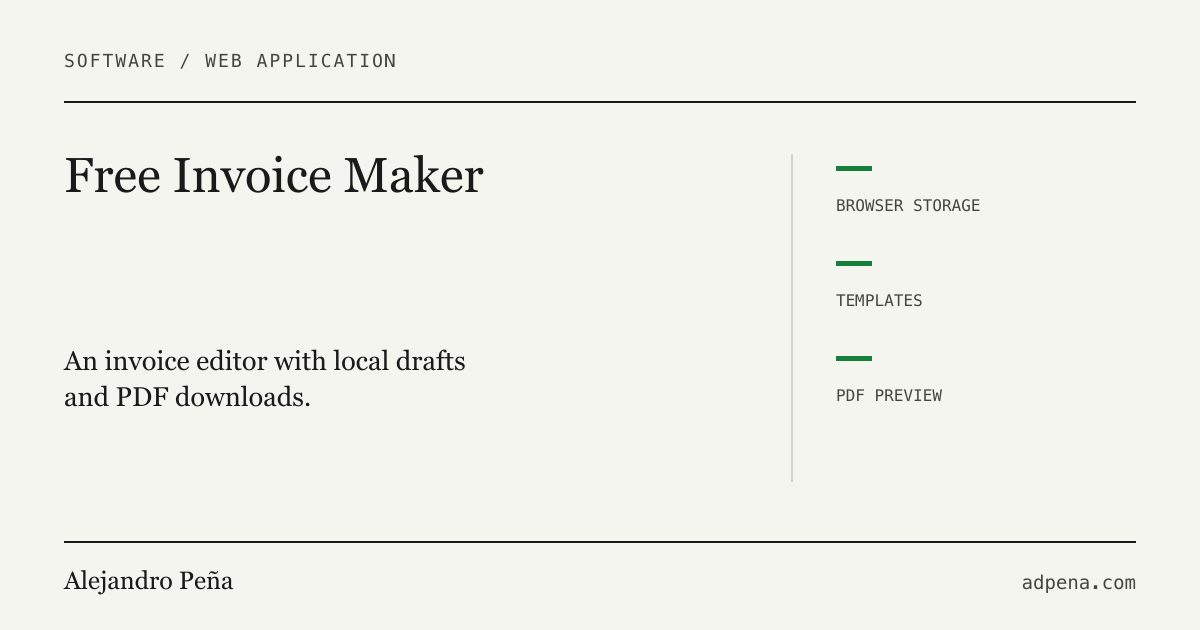
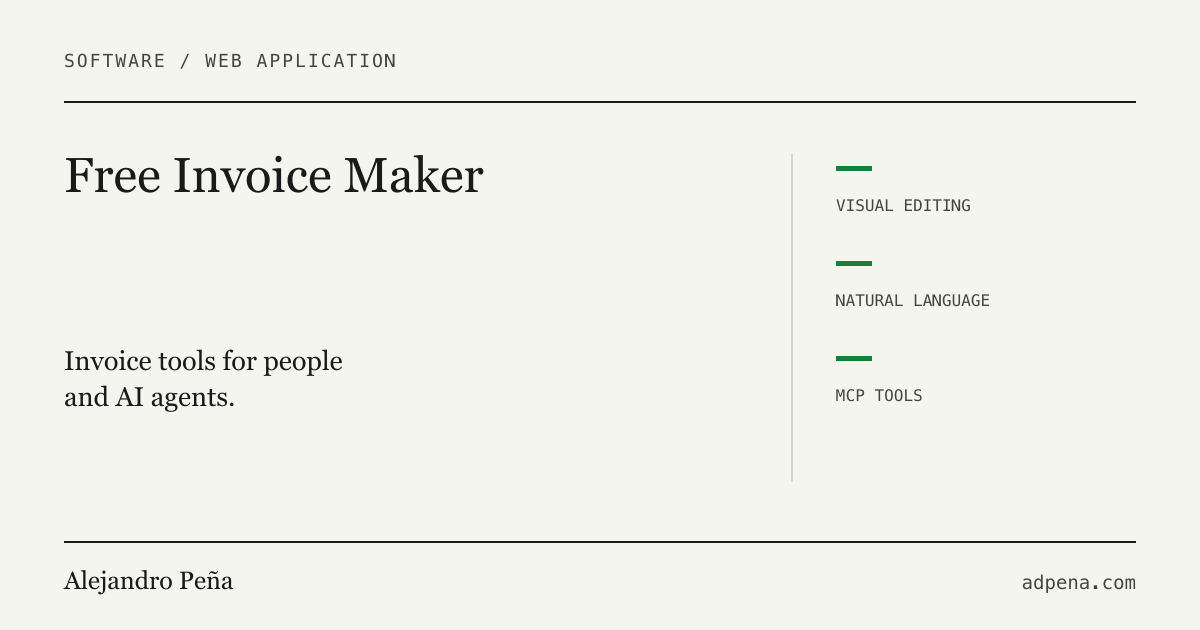
Reframe Free Invoice Maker around its purpose and agent tools (#11)

diff --git a/docs/portfolio-freeinvoicemaker-2026-10-15.md b/docs/portfolio-freeinvoicemaker-2026-10-15.md
@@ -6,12 +6,18 @@ Adds `dev/freeinvoicemaker` to the software work index, with a project page and 
 
 Reviewed the adjacent FreeInvoiceMaker checkout at commit `0e0f0729c086ea2ba14837b005772cf0637752b0`, its October 15 release and fidelity notes, and the live application homepage. Source files inspected include the browser PDF generator, shared preview/download function, PDF.js preview, download button, IndexedDB storage, sync queue, and tabular import parser.
 
-The entry describes the account-free editor and browser PDF download, local draft storage, templates and document controls, review before applying pasted table data, and integer currency units. The current source and release evidence support these claims. The PDF statement concerns the invoice editor's browser preview and download.
+The entry now leads with the project's purpose: Alejandro used FreeInvoiceGenerator.com for Data for Public Education and set out to build an invoice tool for people and AI agents. This origin, sole design and development, personal use, and intended product direction come from Alejandro's account. The page describes the simple form and visual template editor, natural-language entry, structured tools for agents, and exploration of design references. It retains the live browser PDF workflow as supporting context. No external adoption or revenue is inferred from site visits.
 
-The older README and some homepage copy describe more than the recent verification establishes. The entry makes no claims about verified email delivery, payment collection, collaboration, complete localization, regulatory compliance, universal accessibility, or parity across every renderer. It does not repeat usage numbers, speed claims, pricing promises, or AI marketing language.
+Additional source review covers `NaturalLanguageInput.tsx`, `SimpleFormMCPProvider.tsx`, the template editor's `MCPProvider.tsx`, the HTTP MCP catalog, brand extraction and template generation, and feature gating. The public MCP discovery endpoint returns the invoice and template tool catalog. The fidelity receipt records three real-model text-to-invoice cases on isolated staging; it does not establish arbitrary prompt accuracy. The browser tools use a project-specific message bridge, so the copy does not claim standardized browser WebMCP compatibility or a completed ChatGPT integration.
+
+Website style extraction reads colors, fonts, and logo information; it is not proof of general AI reproduction of arbitrary files or visual references. The broader reference-guided design workflow is described as exploration. Accessibility, international use, and search visibility are continuing product work, not completed certifications or measured adoption. Paid bulk agent use is the intended business model; payment workflows remain in development.
+
+The older README and some homepage copy describe more than the recent verification establishes. The entry makes no claims about verified email delivery, payment collection, collaboration, complete localization, regulatory compliance, universal accessibility, or parity across every renderer. It does not repeat usage numbers, speed claims, or specific pricing promises.
 
 ## Editing and publication
 
 Copy was reviewed against the implementation, edited for plain language, and checked in the rendered portfolio. The new CMS entry and revision are inserted without updating existing records. The insert is rehearsed against a verified backup, including search-index integrity and duplicate protection. Live publication is followed by another backup, comparison of all pre-existing CMS rows and revisions, and refresh of the published preview seed.
 
 Private backups, candidate content, and publication receipts remain in ignored directories. The social preview follows the existing portfolio design and uses text and vectors.
+
+The purpose-focused revision replaces only this entry's summary, body, and stack, adds a new live revision, and preserves the prior revision. A full-row comparison guards the update; the entry must still have no pending draft. The SQL is rehearsed against a freshly verified backup before publication, and the after-backup comparison checks every other CMS row, every earlier revision, and site settings. The public snapshot and social preview are updated to match.
